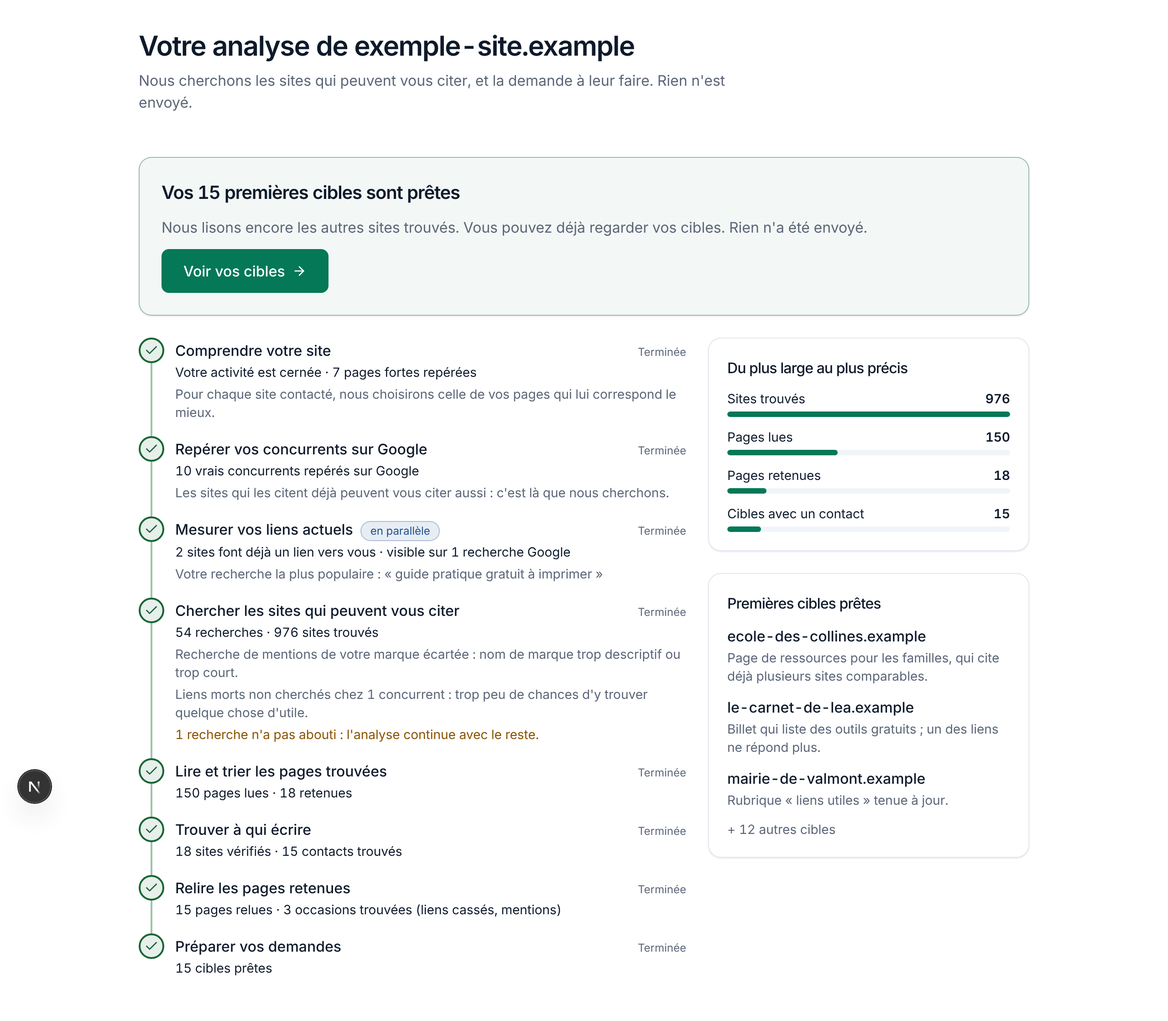
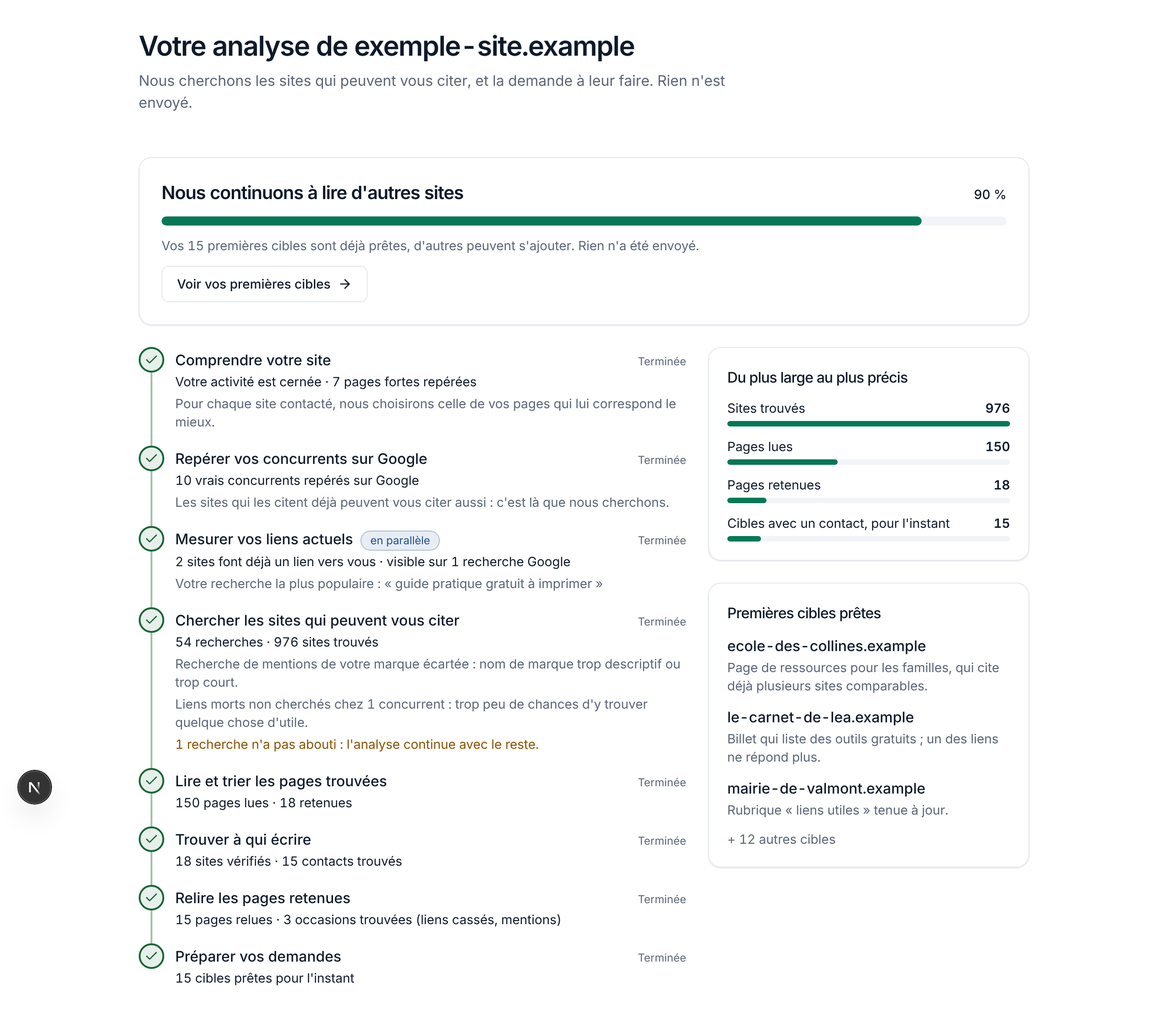
Écran d'analyse : reste « en cours » tant que la lecture des autres sites n'est pas finie
La barre avance encore, le nombre de cibles est dit « pour l'instant », et
« Analyse terminée » donne le nombre réel une fois la lecture finie. Affichage
seulement ; une colonne de plus lue sur la ligne déjà chargée.

Claude-Session: https://claude.ai/code/session_01PAPr5diAiCyyDNqhd4VWVd

diff --git a/src/features/analysis/view.ts b/src/features/analysis/view.ts
@@ -59,6 +59,8 @@ export interface AnalysisSnapshot {
   targetsCount: number;
   skipped?: SkippedSearches | null;
   background?: BackgroundStatus | null;
+  /** Un lot « Lire d'autres sites » est demandé ou en cours (`qualification_runs.more_status`). */
+  moreRunning?: boolean;
 }
 
 /**
@@ -118,6 +120,10 @@ export interface StepView {
 
 /** Délai au-delà duquel une analyse confirmée sans aucune étape est dite « lente à démarrer ». */
 export const SLOW_START_MS = 2 * 60_000;
+/** Part de la barre réservée à la première liste ; le reste avance pendant la lecture des autres sites. */
+export const FIRST_PASS_PERCENT = 90;
+/** Durée maximale de la lecture des autres sites (`AUTO_LIMITS.maxMs`), pour faire avancer la barre. */
+const BACKGROUND_MAX_MS = 25 * 60_000;
 /** Après la fin, délai pendant lequel la lecture des autres sites peut encore ne pas avoir démarré. */
 export const BACKGROUND_GRACE_MS = 5 * 60_000;
 
@@ -325,20 +331,39 @@ export function buildAnalysisView(s: AnalysisSnapshot, now: Date = new Date()): 
     const r = byKey.get(k);
     doneWeight += STEP_WEIGHTS[k] * (r ? stepFraction(r) : 0);
   }
+  // « Terminée » n'est dit que lorsque la lecture des autres sites est finie (décision de Jonathan, 18/11) :
+  // d'ici là l'écran reste « en cours », la barre avance encore et le nombre de cibles n'est pas dit final.
+  // Entre la fin de l'analyse et le démarrage de cette lecture, son état est encore « aucun » : on attend
+  // quelques minutes avant de conclure qu'elle n'aura pas lieu.
+  const finishedMs = s.finishedAt ? Date.parse(s.finishedAt) : NaN;
+  const sinceFinish = Number.isFinite(finishedMs) ? Math.max(0, now.getTime() - finishedMs) : 0;
+  const backgroundPending =
+    finished &&
+    (s.background === "en_cours" ||
+      s.moreRunning === true ||
+      (s.background === "aucun" &&
+        Number.isFinite(finishedMs) &&
+        sinceFinish < BACKGROUND_GRACE_MS));
+
+  const fraction = doneWeight / TOTAL_WEIGHT;
+  const rest = 100 - FIRST_PASS_PERCENT;
   const percent = finished
-    ? 100
+    ? backgroundPending
+      ? FIRST_PASS_PERCENT +
+        Math.min(rest - 1, Math.floor((rest * sinceFinish) / BACKGROUND_MAX_MS))
+      : 100
     : s.status === "aucun"
       ? 0
-      : Math.round((100 * doneWeight) / TOTAL_WEIGHT);
+      : Math.round(FIRST_PASS_PERCENT * fraction);
 
   let remainingMinutes: number | null = null;
   if (s.status === "confirme" || s.status === "en_cours") {
     let seconds = TOTAL_WEIGHT - doneWeight;
     const startedMs = s.startedAt ? Date.parse(s.startedAt) : NaN;
     // Assez avancée : la vitesse réelle de CETTE analyse vaut mieux que les durées mesurées avant.
-    if (percent >= 15 && Number.isFinite(startedMs)) {
+    if (fraction >= 0.15 && Number.isFinite(startedMs)) {
       const elapsed = Math.max(0, (now.getTime() - startedMs) / 1000);
-      seconds = (elapsed * (100 - percent)) / percent;
+      seconds = (elapsed * (1 - fraction)) / fraction;
     }
     remainingMinutes = Math.max(1, Math.ceil(seconds / 60));
   }
@@ -372,20 +397,21 @@ export function buildAnalysisView(s: AnalysisSnapshot, now: Date = new Date()): 
     Number.isFinite(confirmedMs) &&
     now.getTime() - confirmedMs > SLOW_START_MS;
 
-  // « Terminée » n'est dit que lorsque la lecture des autres sites est finie (décision de Jonathan, 18/11).
-  // Entre la fin de l'analyse et le démarrage de cette lecture, son état est encore « aucun » : on attend
-  // quelques minutes avant de conclure qu'elle n'aura pas lieu.
-  const finishedMs = s.finishedAt ? Date.parse(s.finishedAt) : NaN;
-  const backgroundPending =
-    finished &&
-    (s.background === "en_cours" ||
-      (s.background === "aucun" &&
-        Number.isFinite(finishedMs) &&
-        now.getTime() - finishedMs < BACKGROUND_GRACE_MS));
+  // Le nombre de cibles grossit pendant la lecture des autres sites : la dernière étape suit le compte réel.
+  const last = steps.find((x) => x.key === "demandes");
+  if (finished && last && last.status === "termine") {
+    last.counter = backgroundPending ? R.readySoFar(s.targetsCount) : R.ready(s.targetsCount);
+  }
 
   const current = steps.find((x) => x.status === "en_cours" && !x.parallel);
   const anyStarted = steps.some((x) => x.status !== "attente");
-  const headline = current ? S.now[current.key] : anyStarted ? S.now.between : S.starting;
+  const headline = backgroundPending
+    ? S.continuingTitle
+    : current
+      ? S.now[current.key]
+      : anyStarted
+        ? S.now.between
+        : S.starting;
 
   const failedStep = steps.find((x) => x.status === "echoue" && !x.parallel) ?? null;
   return {

diff --git a/src/features/analysis/analysis-progress.tsx b/src/features/analysis/analysis-progress.tsx
@@ -212,12 +212,12 @@ function StepRowView({
 }
 
 /** Du plus large au plus précis : quatre lignes toujours présentes (« à venir »), donc aucun saut quand elles se remplissent. */
-function FunnelCard({ funnel }: { funnel: FunnelView }) {
+function FunnelCard({ funnel, provisional }: { funnel: FunnelView; provisional: boolean }) {
   const rows: [string, number | null][] = [
     [S.funnelRows.found, funnel.found],
     [S.funnelRows.read, funnel.read],
     [S.funnelRows.kept, funnel.kept],
-    [S.funnelRows.targets, funnel.targets],
+    [provisional ? S.funnelRows.targetsSoFar : S.funnelRows.targets, funnel.targets],
   ];
   const max = Math.max(1, funnel.found);
   return (
@@ -314,10 +314,10 @@ export function AnalysisProgress({
 
   // Fin : on laisse voir « terminée », puis « Vos cibles » s'ouvre seul.
   useEffect(() => {
-    if (snap.status !== "termine" || !autoOpen) return;
+    if (snap.status !== "termine" || !autoOpen || view.backgroundPending) return;
     const timer = setTimeout(() => router.push(siteHref.cibles(snap.siteId)), REDIRECT_MS);
     return () => clearTimeout(timer);
-  }, [snap.status, snap.siteId, router, autoOpen]);
+  }, [snap.status, snap.siteId, router, autoOpen, view.backgroundPending]);
 
   // Après « Reprendre », on relit l'état tout de suite : l'interrogation repart d'elle-même.
   const resume = async (prev: AuditActionState) => {
@@ -349,9 +349,10 @@ export function AnalysisProgress({
   };
 
   const failed = snap.status === "echoue";
-  const finished = snap.status === "termine";
+  // « Fini » pour l'écran : la première liste ET la lecture des autres sites trouvés.
+  const finished = snap.status === "termine" && !view.backgroundPending;
   const hidden = Math.max(0, view.targetsCount - view.targets.length);
-  const noTargets = finished && !view.backgroundPending && view.targetsCount === 0;
+  const noTargets = finished && view.targetsCount === 0;
 
   return (
     <div className="flex flex-col gap-6" data-analysis-status={snap.status}>
@@ -359,16 +360,11 @@ export function AnalysisProgress({
         <Card
           className="flex flex-col items-start gap-3 border-success/40 bg-success/5 p-5 sm:p-6"
           data-block="done"
-          data-background={view.backgroundPending ? "en_cours" : "fini"}
         >
           <h2 role="status" className="font-display text-xl font-semibold text-balance">
-            {view.backgroundPending
-              ? S.firstReadyTitle(view.targetsCount)
-              : S.doneTitle(view.targetsCount)}
+            {S.doneTitle(view.targetsCount)}
           </h2>
-          <p className="text-muted-foreground">
-            {view.backgroundPending ? S.firstReadyBody : S.doneBody(view.targetsCount)}
-          </p>
+          <p className="text-muted-foreground">{S.doneBody(view.targetsCount)}</p>
           <div className="flex flex-wrap items-center gap-3">
             <Button asChild className="h-12 px-6 text-base">
               <Link href={siteHref.cibles(snap.siteId)}>
@@ -452,9 +448,23 @@ export function AnalysisProgress({
               style={{ width: `${Math.max(view.percent, 2)}%` }}
             />
           </div>
-          <p className="text-sm text-muted-foreground">
-            {emailEnabled ? S.closeWithEmail : S.closeNoEmail}
-          </p>
+          {view.backgroundPending ? (
+            <>
+              <p className="text-sm text-muted-foreground" data-continuing>
+                {S.continuingBody(view.targetsCount)}
+              </p>
+              <Button asChild variant="outline" className="self-start">
+                <Link href={siteHref.cibles(snap.siteId)}>
+                  {S.continuingCta}
+                  <ArrowRight aria-hidden className="size-4" />
+                </Link>
+              </Button>
+            </>
+          ) : (
+            <p className="text-sm text-muted-foreground">
+              {emailEnabled ? S.closeWithEmail : S.closeNoEmail}
+            </p>
+          )}
         </Card>
       )}
 
@@ -499,7 +509,9 @@ export function AnalysisProgress({
         </ol>
 
         <div className="flex min-w-0 flex-col gap-6">
-          {view.funnel ? <FunnelCard funnel={view.funnel} /> : null}
+          {view.funnel ? (
+            <FunnelCard funnel={view.funnel} provisional={view.backgroundPending} />
+          ) : null}
 
           <Card className="flex flex-col gap-3 p-5" data-block="targets">
             <h3 className="font-medium">

diff --git a/src/features/analysis/view.test.ts b/src/features/analysis/view.test.ts
@@ -193,8 +193,8 @@ describe("buildAnalysisView", () => {
       ]),
       new Date("2026-11-16T10:03:00Z"),
     );
-    // (10 + 40 + 280 × 23/35) / 762 ≈ 0,31
-    expect(v.percent).toBe(31);
+    // 90 × (10 + 40 + 280 × 23/35) / 762 ≈ 28 : la première liste occupe 90 % de la barre.
+    expect(v.percent).toBe(28);
     expect(v.headline).toBe("Nous cherchons les sites qui peuvent vous citer");
     expect(v.steps.find((s) => s.key === "recherche")).toMatchObject({
       counter: "23 recherches faites sur 35 environ · 412 sites trouvés",
@@ -280,6 +280,37 @@ describe("buildAnalysisView", () => {
       done({ background: "aucun", finishedAt: "2026-11-16T09:00:00Z" }).backgroundPending,
     ).toBe(false);
     expect(done({}).backgroundPending).toBe(false);
+    // Un lot « Lire d'autres sites » demandé à la main compte aussi.
+    expect(done({ background: "termine", moreRunning: true }).backgroundPending).toBe(true);
+  });
+
+  it("état intermédiaire puis final : la barre avance encore, le nombre de cibles n'est jamais dit final avant", () => {
+    const at = (over: Partial<AnalysisSnapshot>, now: string) =>
+      buildAnalysisView(
+        withSteps(
+          ANALYSIS_STEP_KEYS.map((k) =>
+            row(k, "termine", k === "demandes" ? { done: 15, total: 15, found: 15 } : {}),
+          ),
+          { status: "termine", finishedAt: "2026-11-16T10:12:00Z", ...over },
+        ),
+        new Date(now),
+      );
+    const early = at({ background: "en_cours", targetsCount: 15 }, "2026-11-16T10:13:00Z");
+    const later = at({ background: "en_cours", targetsCount: 19 }, "2026-11-16T10:27:00Z");
+    const final = at({ background: "termine", targetsCount: 19 }, "2026-11-16T10:30:00Z");
+    expect(early).toMatchObject({ percent: 90, headline: "Nous continuons à lire d'autres sites" });
+    expect(later.percent).toBeGreaterThan(early.percent);
+    expect(later.percent).toBeLessThan(100);
+    expect(early.steps.at(-1)!.counter).toBe("15 cibles prêtes pour l'instant");
+    expect(later.steps.at(-1)!.counter).toBe("19 cibles prêtes pour l'instant");
+    // Final : 100 %, et la dernière étape dit le nombre réel (19), pas celui de la première liste (15).
+    expect(final).toMatchObject({ percent: 100, backgroundPending: false });
+    expect(final.steps.at(-1)!.counter).toBe("19 cibles prêtes");
+    // Avant la fin de la première liste, la barre ne dépasse jamais 90 %.
+    const almost = buildAnalysisView(
+      withSteps(ANALYSIS_STEP_KEYS.map((k) => row(k, k === "demandes" ? "en_cours" : "termine"))),
+    );
+    expect(almost.percent).toBeLessThanOrEqual(90);
   });
 
   it("l'échec de la mesure des liens (en parallèle) n'est pas « l'étape qui s'est arrêtée »", () => {

diff --git a/messages/fr.ts b/messages/fr.ts
@@ -3324,6 +3324,12 @@ export const fr = {
         pageReread: (d: string) => `Page relue : ${d}`,
         rereadSkipped: "Écartée : aucune page retenue à relire.",
         skippedGeneric: "Écartée : rien à faire à cette étape.",
+        readySoFar: (n: number) =>
+          n === 0
+            ? "Aucune cible prête pour l'instant"
+            : n === 1
+              ? "1 cible prête pour l'instant"
+              : `${n} cibles prêtes pour l'instant`,
         ready: (n: number) =>
           n === 0 ? "Aucune cible prête" : n === 1 ? "1 cible prête" : `${n} cibles prêtes`,
       },
@@ -3333,6 +3339,7 @@ export const fr = {
         read: "Pages lues",
         kept: "Pages retenues",
         targets: "Cibles avec un contact",
+        targetsSoFar: "Cibles avec un contact, pour l'instant",
       },
       funnelPending: "à venir",
       targetsTitle: "Premières cibles prêtes",
@@ -3353,14 +3360,15 @@ export const fr = {
         n === 0
           ? "Aucune cible retenue cette fois. Rien n'a été envoyé."
           : "Pour chacune, la demande à faire et pourquoi. Rien n'a été envoyé.",
-      firstReadyTitle: (n: number) =>
+      /** Première liste prête, mais la lecture des autres sites trouvés tourne encore : l'écran reste « en cours ». */
+      continuingTitle: "Nous continuons à lire d'autres sites",
+      continuingBody: (n: number) =>
         n === 0
-          ? "La première recherche est finie"
+          ? "Aucune cible pour l'instant : la lecture des autres sites trouvés continue. Rien n'a été envoyé."
           : n === 1
-            ? "Votre première cible est prête"
-            : `Vos ${n} premières cibles sont prêtes`,
-      firstReadyBody:
-        "Nous lisons encore les autres sites trouvés. Vous pouvez déjà regarder vos cibles. Rien n'a été envoyé.",
+            ? "Votre première cible est déjà prête, d'autres peuvent s'ajouter. Rien n'a été envoyé."
+            : `Vos ${n} premières cibles sont déjà prêtes, d'autres peuvent s'ajouter. Rien n'a été envoyé.`,
+      continuingCta: "Voir vos premières cibles",
       doneCta: "Voir vos cibles",
       redirecting: "Ouverture de vos cibles…",
       failedTitle: "L'analyse s'est arrêtée",

diff --git a/src/features/analysis/analysis-progress.test.ts b/src/features/analysis/analysis-progress.test.ts
@@ -68,11 +68,22 @@ describe("AnalysisProgress (rendu serveur)", () => {
     expect(out).toContain("Analyse terminée : 22 cibles sont prêtes");
     expect(out).toContain("Rien n&#x27;a été envoyé");
   });
-  it("fin, lecture des autres sites encore en cours : « terminée » n'est pas encore dit", () => {
-    const out = html({ ...base, status: "termine", targetsCount: 22, background: "en_cours" });
-    expect(out).toContain("Vos 22 premières cibles sont prêtes");
-    expect(out).toContain("Nous lisons encore les autres sites trouvés");
+  it("état intermédiaire : lecture des autres sites en cours, l'écran reste « en cours »", () => {
+    const out = html({ ...base, status: "termine", targetsCount: 15, background: "en_cours" });
+    expect(out).toMatch(/aria-live="polite"[^>]*>Nous continuons à lire d&#x27;autres sites/);
+    expect(out).toContain(
+      "Vos 15 premières cibles sont déjà prêtes, d&#x27;autres peuvent s&#x27;ajouter",
+    );
+    expect(out).toContain("Voir vos premières cibles");
+    expect(out).toContain('role="progressbar"');
     expect(out).not.toContain("Analyse terminée");
+    expect(out).not.toContain("Ouverture de vos cibles");
+  });
+  it("état final : lecture finie, « Analyse terminée » avec le nombre réel", () => {
+    const out = html({ ...base, status: "termine", targetsCount: 19, background: "termine" });
+    expect(out).toContain("Analyse terminée : 19 cibles sont prêtes");
+    expect(out).not.toContain('role="progressbar"');
+    expect(out).not.toContain("premières cibles sont déjà prêtes");
   });
   it("en cours : la phrase d'état est annoncée, l'étape écartée est dite écartée", () => {
     const steps = base.steps.map((s) =>

diff --git a/src/features/analysis/status.ts b/src/features/analysis/status.ts
@@ -64,7 +64,11 @@ export async function loadAnalysisSnapshot(
       .eq("audit_id", auditId)
       .eq("status", "liste_courte"),
     supabase.from("candidate_collections").select("plan").eq("audit_id", auditId).maybeSingle(),
-    supabase.from("qualification_runs").select("auto_status").eq("audit_id", auditId).maybeSingle(),
+    supabase
+      .from("qualification_runs")
+      .select("auto_status, more_status")
+      .eq("audit_id", auditId)
+      .maybeSingle(),
   ]);
   const a = audit.data;
   if (!a) return null;
@@ -98,5 +102,6 @@ export async function loadAnalysisSnapshot(
     background: BACKGROUND.includes(qualification.data?.auto_status as BackgroundStatus)
       ? (qualification.data!.auto_status as BackgroundStatus)
       : null,
+    moreRunning: ["demande", "en_cours"].includes(qualification.data?.more_status ?? ""),
   };
 }

diff --git a/PROGRESS.md b/PROGRESS.md
@@ -2140,29 +2140,29 @@ Périmètre tenu : textes (`messages/fr.ts`), calcul d'affichage (`analysis/view
 
 Références : campagnes mega-coloring.com du 16/11 (`37a97992…`) et du 18/11 (`e94ff71f…`), remove-me.io du 17/11, table `analysis_steps` et `candidate_collections.plan`.
 
-| Texte affiché (avant)                                                      | Ce que le code mesure                                                                                                                                                                                                                                                                          | Verdict | Texte après                                                                                                                                                                                                                              |
-| -------------------------------------------------------------------------- | ---------------------------------------------------------------------------------------------------------------------------------------------------------------------------------------------------------------------------------------------------------------------------------------------- | ------- | ---------------------------------------------------------------------------------------------------------------------------------------------------------------------------------------------------------------------------------------- |
-| Comprendre votre site · 7 pages lues                                       | `found` = `linkable_resources.length` (contenus à proposer), pas les pages lues (`done` = 9). Le catalogue du rédacteur est construit plus tard.                                                                                                                                               | Faux    | « Votre activité est cernée · 7 pages fortes repérées » + « Pour chaque site contacté, nous choisirons celle de vos pages… »                                                                                                             |
-| Repérer vos concurrents · 1 sur 1 recherches                               | `total` = recherches Google + 1 mesure de taille. Découverte déjà faite avant le lancement (18/11) : il ne reste que la mesure, d'où « 1 sur 1 ». 16/11 : 3 recherches + 1 = « 4 sur 4 ».                                                                                                      | Faux    | En cours : « Recherche Google 2 sur 3 », puis « Mesure de la taille de chaque concurrent ». Fini : « 10 vrais concurrents repérés sur Google ».                                                                                          |
-| État des lieux de vos liens · 3 sur 3 relevés · <une requête ou un site>   | 3 appels (résumé, domaines référents, mots-clés classés). `found` = domaines référents, `keywords` = mots-clés classés, jamais montrés. L'exemple est le premier domaine référent puis la requête la plus populaire, sans étiquette.                                                           | Ambigu  | « Mesurer vos liens actuels » · « 2 sites font déjà un lien vers vous · visible sur 1 recherche Google » · « Votre recherche la plus populaire : « … » » (un site qui cite n'est plus montré en exemple).                                |
-| Chercher les sites… · 1 sur 45 recherches                                  | `total` = recoupement + SERP + recherches par type de page, calculé au début ; ne compte ni les liens morts des concurrents ni les citations ni la 2e page de recoupement (54 à la fin le 18/11) ; la phase SERP peut s'arrêter avant (27 sur 35 le 16/11, étape « terminée »).                | Faux    | En cours : « 12 recherches faites sur 45 environ · 340 sites trouvés ». Fini : « 54 recherches · 976 sites trouvés ».                                                                                                                    |
-| Trier · 80 sur 150 pages lues                                              | Lecture : `done`/`total` pages lues, `kept` = pages en ligne et lisibles (non montré). Jugement : `judged`/`to_judge`, `found` = pages retenues.                                                                                                                                               | Ambigu  | « Lire et trier les pages trouvées » · « 80 pages lues sur 150 · 31 lisibles », puis « 4 pages évaluées sur 10 · 3 retenues », fini « 150 pages lues · 18 retenues ».                                                                    |
-| Trouver un contact · 12 sur 18 sites vérifiés · 10 contacts trouvés        | Conforme (`done`/`total`/`found` de la recherche de contact).                                                                                                                                                                                                                                  | Juste   | « Trouver à qui écrire », mêmes compteurs.                                                                                                                                                                                               |
-| Chercher liens morts et mentions · 15 sur 15 pages vérifiées · 3 liens…    | L'étape relit les pages de la liste courte (`done`/`total` = cibles relues, `found` = constats). Les recherches écartées par le plan (`plan.skipped`) appartiennent à l'étape 4 et n'étaient dites nulle part : l'étape n'était pas « faite à tort », mais rien ne disait ce qui était écarté. | Ambigu  | « Relire les pages retenues » · « 15 pages relues · 3 occasions trouvées (liens cassés, mentions) ». Sous l'étape 4 : « Recherche de mentions de votre marque écartée : <raison>. », « Liens morts non cherchés chez N concurrent(s)… ». |
-| Préparer vos demandes · 15 sur 15 · 15 cibles prêtes                       | Compte les cibles et clôt l'analyse ; aucun message n'est écrit à cette étape.                                                                                                                                                                                                                 | Ambigu  | Nom gardé (décision de Jonathan) ; résultat « 15 cibles prêtes ».                                                                                                                                                                        |
-| Carte « Où en est le tri » · 976 sites examinés → 18 après tri → 15 cibles | 976 = sites TROUVÉS (`recherche.found`) ; 150 pages lues seulement.                                                                                                                                                                                                                            | Faux    | « Du plus large au plus précis » : Sites trouvés, Pages lues, Pages retenues, Cibles avec un contact ; « à venir » tant que non mesuré.                                                                                                  |
-| Étape sautée : « Sans objet »                                              | Statut `saute` (liste courte vide).                                                                                                                                                                                                                                                            | Ambigu  | « Écartée » + « Écartée : aucune page retenue à relire. »                                                                                                                                                                                |
-| « Environ 19 minutes restantes »                                           | Poids d'un run de MU.1 (1 140 s). Analyses réelles : 650 s, 704 s, 875 s.                                                                                                                                                                                                                      | Faux    | Poids médians des trois analyses (762 s), fourchette affichée.                                                                                                                                                                           |
-| « Analyse terminée · 15 cibles sont prêtes »                               | Vrai pour la première liste ; la lecture des autres sites continue ensuite (`qualification_runs.auto_status`).                                                                                                                                                                                 | Ambigu  | Tant que cette lecture tourne : « Vos 15 premières cibles sont prêtes » ; « Analyse terminée » seulement ensuite.                                                                                                                        |
-| Exemples nus (« Mega Coloring », « esle.io »)                              | Nom du site, premier concurrent retenu.                                                                                                                                                                                                                                                        | Ambigu  | Retirés (retour de Jonathan : mieux vaut ne rien mettre). Tout exemple restant est étiqueté.                                                                                                                                             |
-| « Ce qui s'est arrêté » pouvait nommer l'état des lieux                    | `failedStep` prenait la première étape en échec, y compris l'étape parallèle qui n'arrête rien.                                                                                                                                                                                                | Faux    | L'étape parallèle est ignorée ; « L'analyse s'est arrêtée à l'étape N ».                                                                                                                                                                 |
+| Texte affiché (avant)                                                      | Ce que le code mesure                                                                                                                                                                                                                                                                          | Verdict | Texte après                                                                                                                                                                                                                                                                                                     |
+| -------------------------------------------------------------------------- | ---------------------------------------------------------------------------------------------------------------------------------------------------------------------------------------------------------------------------------------------------------------------------------------------- | ------- | --------------------------------------------------------------------------------------------------------------------------------------------------------------------------------------------------------------------------------------------------------------------------------------------------------------- |
+| Comprendre votre site · 7 pages lues                                       | `found` = `linkable_resources.length` (contenus à proposer), pas les pages lues (`done` = 9). Le catalogue du rédacteur est construit plus tard.                                                                                                                                               | Faux    | « Votre activité est cernée · 7 pages fortes repérées » + « Pour chaque site contacté, nous choisirons celle de vos pages… »                                                                                                                                                                                    |
+| Repérer vos concurrents · 1 sur 1 recherches                               | `total` = recherches Google + 1 mesure de taille. Découverte déjà faite avant le lancement (18/11) : il ne reste que la mesure, d'où « 1 sur 1 ». 16/11 : 3 recherches + 1 = « 4 sur 4 ».                                                                                                      | Faux    | En cours : « Recherche Google 2 sur 3 », puis « Mesure de la taille de chaque concurrent ». Fini : « 10 vrais concurrents repérés sur Google ».                                                                                                                                                                 |
+| État des lieux de vos liens · 3 sur 3 relevés · <une requête ou un site>   | 3 appels (résumé, domaines référents, mots-clés classés). `found` = domaines référents, `keywords` = mots-clés classés, jamais montrés. L'exemple est le premier domaine référent puis la requête la plus populaire, sans étiquette.                                                           | Ambigu  | « Mesurer vos liens actuels » · « 2 sites font déjà un lien vers vous · visible sur 1 recherche Google » · « Votre recherche la plus populaire : « … » » (un site qui cite n'est plus montré en exemple).                                                                                                       |
+| Chercher les sites… · 1 sur 45 recherches                                  | `total` = recoupement + SERP + recherches par type de page, calculé au début ; ne compte ni les liens morts des concurrents ni les citations ni la 2e page de recoupement (54 à la fin le 18/11) ; la phase SERP peut s'arrêter avant (27 sur 35 le 16/11, étape « terminée »).                | Faux    | En cours : « 12 recherches faites sur 45 environ · 340 sites trouvés ». Fini : « 54 recherches · 976 sites trouvés ».                                                                                                                                                                                           |
+| Trier · 80 sur 150 pages lues                                              | Lecture : `done`/`total` pages lues, `kept` = pages en ligne et lisibles (non montré). Jugement : `judged`/`to_judge`, `found` = pages retenues.                                                                                                                                               | Ambigu  | « Lire et trier les pages trouvées » · « 80 pages lues sur 150 · 31 lisibles », puis « 4 pages évaluées sur 10 · 3 retenues », fini « 150 pages lues · 18 retenues ».                                                                                                                                           |
+| Trouver un contact · 12 sur 18 sites vérifiés · 10 contacts trouvés        | Conforme (`done`/`total`/`found` de la recherche de contact).                                                                                                                                                                                                                                  | Juste   | « Trouver à qui écrire », mêmes compteurs.                                                                                                                                                                                                                                                                      |
+| Chercher liens morts et mentions · 15 sur 15 pages vérifiées · 3 liens…    | L'étape relit les pages de la liste courte (`done`/`total` = cibles relues, `found` = constats). Les recherches écartées par le plan (`plan.skipped`) appartiennent à l'étape 4 et n'étaient dites nulle part : l'étape n'était pas « faite à tort », mais rien ne disait ce qui était écarté. | Ambigu  | « Relire les pages retenues » · « 15 pages relues · 3 occasions trouvées (liens cassés, mentions) ». Sous l'étape 4 : « Recherche de mentions de votre marque écartée : <raison>. », « Liens morts non cherchés chez N concurrent(s)… ».                                                                        |
+| Préparer vos demandes · 15 sur 15 · 15 cibles prêtes                       | Compte les cibles et clôt l'analyse ; aucun message n'est écrit à cette étape.                                                                                                                                                                                                                 | Ambigu  | Nom gardé (décision de Jonathan) ; résultat « 15 cibles prêtes ».                                                                                                                                                                                                                                               |
+| Carte « Où en est le tri » · 976 sites examinés → 18 après tri → 15 cibles | 976 = sites TROUVÉS (`recherche.found`) ; 150 pages lues seulement.                                                                                                                                                                                                                            | Faux    | « Du plus large au plus précis » : Sites trouvés, Pages lues, Pages retenues, Cibles avec un contact ; « à venir » tant que non mesuré.                                                                                                                                                                         |
+| Étape sautée : « Sans objet »                                              | Statut `saute` (liste courte vide).                                                                                                                                                                                                                                                            | Ambigu  | « Écartée » + « Écartée : aucune page retenue à relire. »                                                                                                                                                                                                                                                       |
+| « Environ 19 minutes restantes »                                           | Poids d'un run de MU.1 (1 140 s). Analyses réelles : 650 s, 704 s, 875 s.                                                                                                                                                                                                                      | Faux    | Poids médians des trois analyses (762 s), fourchette affichée.                                                                                                                                                                                                                                                  |
+| « Analyse terminée · 15 cibles sont prêtes »                               | Vrai pour la première liste ; la lecture des autres sites continue ensuite (`qualification_runs.auto_status`).                                                                                                                                                                                 | Ambigu  | Tant que cette lecture tourne : écran « en cours », « Nous continuons à lire d'autres sites », « 15 cibles prêtes pour l'instant », barre à 90 % et plus ; « Analyse terminée : 19 cibles sont prêtes » seulement ensuite, et la dernière étape dit le nombre réel (19) et non celui de la première liste (15). |
+| Exemples nus (« Mega Coloring », « esle.io »)                              | Nom du site, premier concurrent retenu.                                                                                                                                                                                                                                                        | Ambigu  | Retirés (retour de Jonathan : mieux vaut ne rien mettre). Tout exemple restant est étiqueté.                                                                                                                                                                                                                    |
+| « Ce qui s'est arrêté » pouvait nommer l'état des lieux                    | `failedStep` prenait la première étape en échec, y compris l'étape parallèle qui n'arrête rien.                                                                                                                                                                                                | Faux    | L'étape parallèle est ignorée ; « L'analyse s'est arrêtée à l'étape N ».                                                                                                                                                                                                                                        |
 
 ### Décisions de Jonathan (18/11)
 
 - Maquette et proposition complète avant de coder (artifact de la session).
 - « 9 pages lues pour cerner votre activité » : pas vendeur ; on affiche le résultat (« Votre activité est cernée · N pages fortes repérées »). Pas de nom de concurrent, ni exemple ni liste : « vaut mieux rien mettre ».
 - Les recherches écartées par le plan s'affichent (lecture seule de `candidate_collections.plan` ajoutée à l'état de l'écran).
-- « Analyse terminée » attend la fin de la lecture des autres sites (lecture seule de `qualification_runs.auto_status`). **Mon interprétation** de « attendre que la recherche soit finie pour montrer la phrase » : pendant cette lecture, l'écran dit « Vos N premières cibles sont prêtes » ; à confirmer.
+- « Analyse terminée » attend la fin de la lecture des autres sites (lecture seule de `qualification_runs.auto_status` et `more_status`). Précision reçue en cours de session par une autre session Claude, au nom de Jonathan (non confirmée par lui directement dans cette session, mais conforme à sa réponse « attendre que la recherche soit finie ») : le chiffre passait de 15 à 19 après « terminé ». Règle appliquée : tant que cette lecture tourne, l'écran reste « en cours » (« Nous continuons à lire d'autres sites »), la barre avance encore (la première liste occupe 90 % de la barre, le reste avance avec le temps), le nombre de cibles est dit « pour l'instant », et « Vos cibles » ne s'ouvre plus tout seul avant la vraie fin (un bouton « Voir vos premières cibles » reste là).
 - « Préparer vos demandes » garde son nom.
 
 ### Décisions UX
@@ -2185,7 +2185,8 @@ Démonstration sans base : `NEXT_PUBLIC_APP_URL=http://localhost:3100 NEXT_PUBLI
 
 - **Non vérifié sur une analyse réelle en direct** : rendu contrôlé sur des états d'exemple qui reprennent la forme exacte des compteurs en base, pas sur une analyse qui tourne. À regarder à la prochaine analyse.
 - `backgroundPending` : entre la fin de l'analyse et le démarrage de la lecture des autres sites, `auto_status` vaut encore « aucun » ; l'écran attend 5 minutes (`BACKGROUND_GRACE_MS`) avant de dire « terminée ». Une analyse sans lecture d'arrière-plan qui ne passerait jamais à « termine » dirait donc « premières cibles » pendant 5 minutes.
-- L'ouverture automatique de « Vos cibles » (4 s après la fin) est inchangée : la personne quitte l'écran avant de voir « Analyse terminée ».
+- L'ouverture automatique de « Vos cibles » n'a plus lieu qu'à la vraie fin (lecture des autres sites comprise) : jusqu'à 25 minutes plus tard qu'avant. L'email « vos cibles sont prêtes » n'est pas touché.
+- Pendant la lecture des autres sites, la barre avance avec le TEMPS (90 % vers 99 % sur 25 minutes au plus), pas avec le nombre de sites restants : l'écran ne connaît pas ce nombre (« N restent à lire » demanderait une requête de plus ; au backlog).
 - Le total « environ » de l'étape 4 reste une prévision incomplète (liens morts et citations non comptés) : le corriger demande de toucher `run.ts` (logique, hors périmètre).
 - En échec, « Reprendre à partir d'ici » s'affiche sur chaque étape commencée (comportement existant) : chargé à l'œil sur mobile.
 - Le fil d'événements (`analysis_feed`) reprend les nouveaux noms d'étapes ; les lignes déjà écrites gardent les anciens.
@@ -2197,7 +2198,7 @@ Démonstration sans base : `NEXT_PUBLIC_APP_URL=http://localhost:3100 NEXT_PUBLI
 - Compter dans le total de l'étape 4 les liens morts, les citations et la 2e page de recoupement (dans `run.ts`).
 - Montrer la phase « sites comparables » (boule de neige) et le nombre de cibles ajoutées par la lecture des autres sites (`auto_added`), le rendement par ressource.
 - Raison détaillée de chaque concurrent écarté pour les liens morts (aujourd'hui : un nombre).
-- Ne pas ouvrir « Vos cibles » tout seul tant que la lecture des autres sites tourne, ou y reporter la phrase de fin.
+- Dire « N sites restent à lire » pendant la lecture des autres sites (compte de la réserve : une requête de plus) et la raison d'arrêt (`auto_stop`, textes `targets…auto.stop`).
 
 ### Prochain sous-jalon recommandé : MC.6f (inchangé)
 
